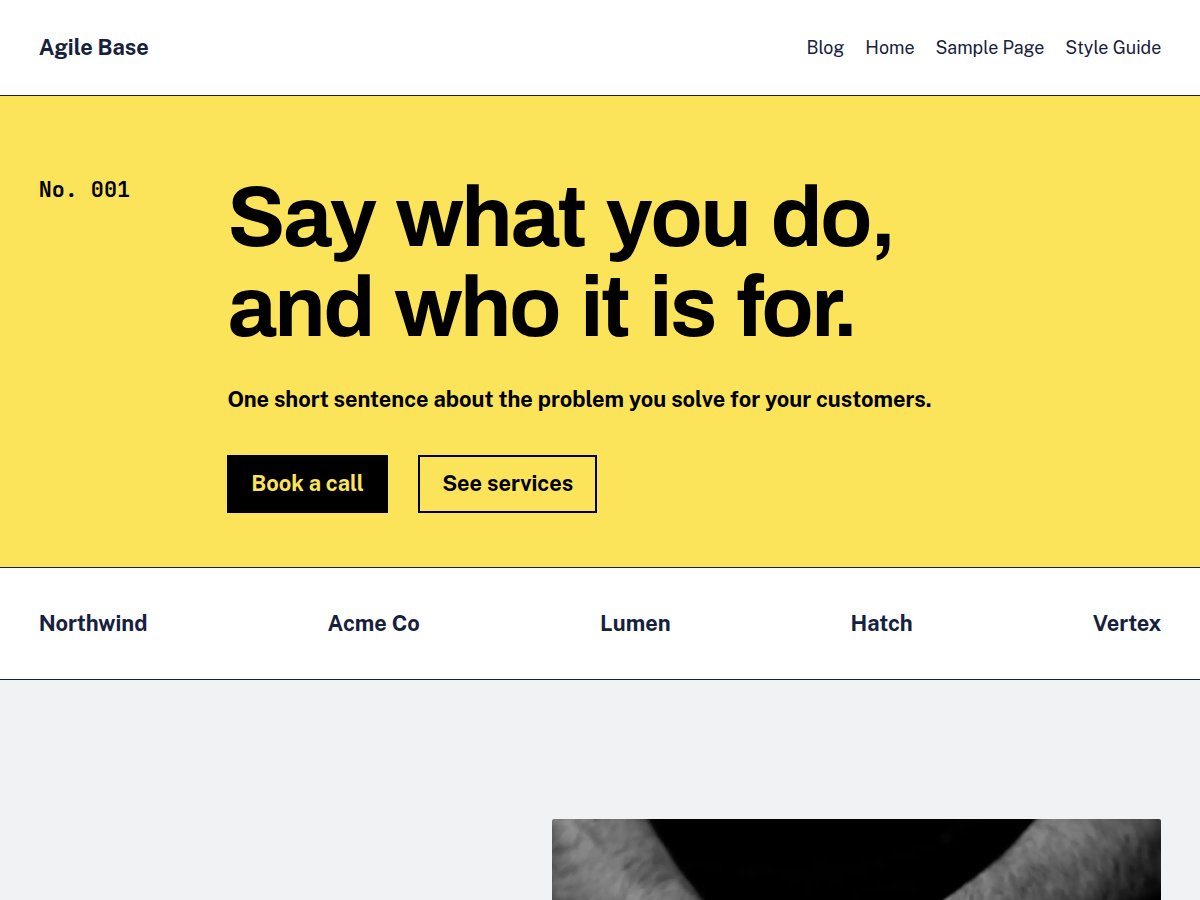
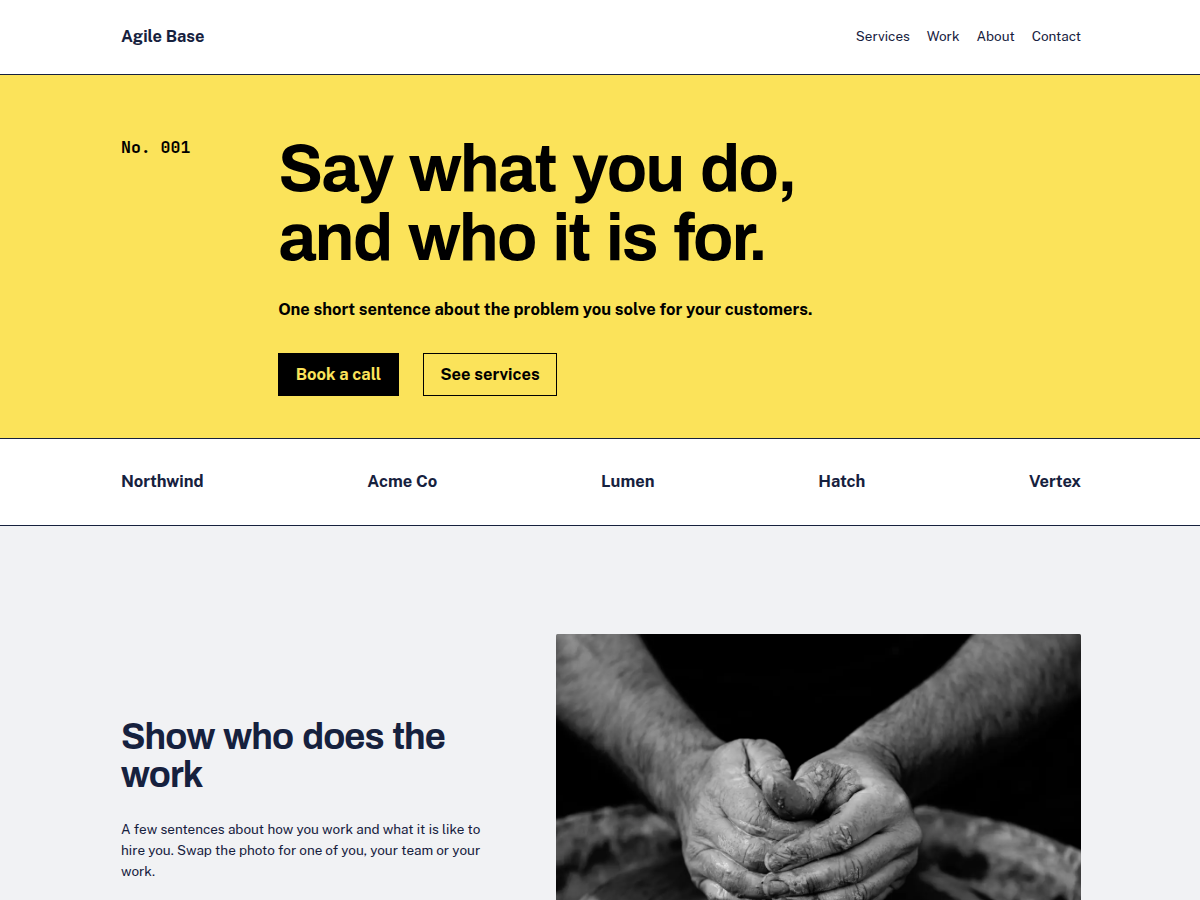
fix: Part 5 review: search box with outside button, focus on covers, screenshot
- Search: only a search with its button inside is drawn as one paper box. With the
  button outside, the section color shows between field and button again (Field,
  Ink and Velocity had a paper strip, joined bar or paper corners).
- check-focus: measure a Cover's ring against its overlay color, not the page.
- Screenshot: 1600x1200 drawn at 0.75 so the 1200x900 image shows the hero, logos
  and the next section; captured with a short business menu and no site logo.
- AGENTS.md: drop the Velocity line that contradicted its palette-color exception.

Claude-Session: https://claude.ai/code/session_01VaMDmUcCWMekJrygfcgX8k

diff --git a/AGENTS.md b/AGENTS.md
@@ -41,5 +41,5 @@ When reporting information to me, be extremely concise and sacrifice grammar for
 
 ## Compatibility
 
-- Never edit `tests/compat-check.mjs` or `styles/velocity.json`.
+- Never edit `tests/compat-check.mjs`.
 - **2.x public API** (`tests/api-check.mjs`, generated by `bin/freeze-api.mjs`): add and restyle; never rename or remove frozen names. Before each regeneration, copy the old check to `build/` and confirm it still passes.
